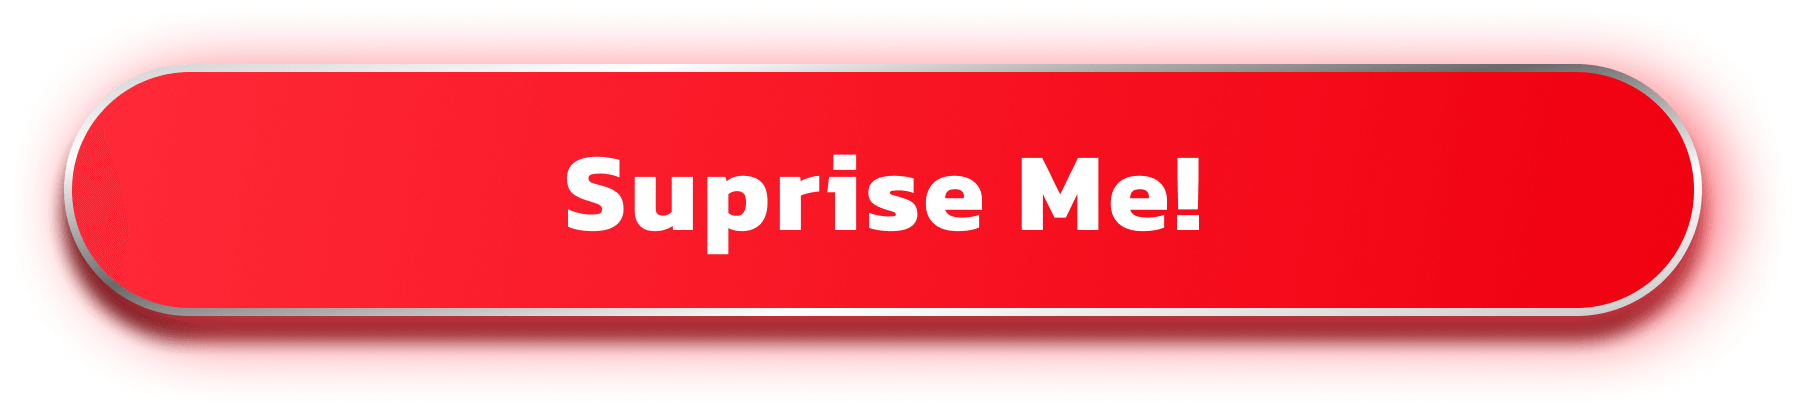
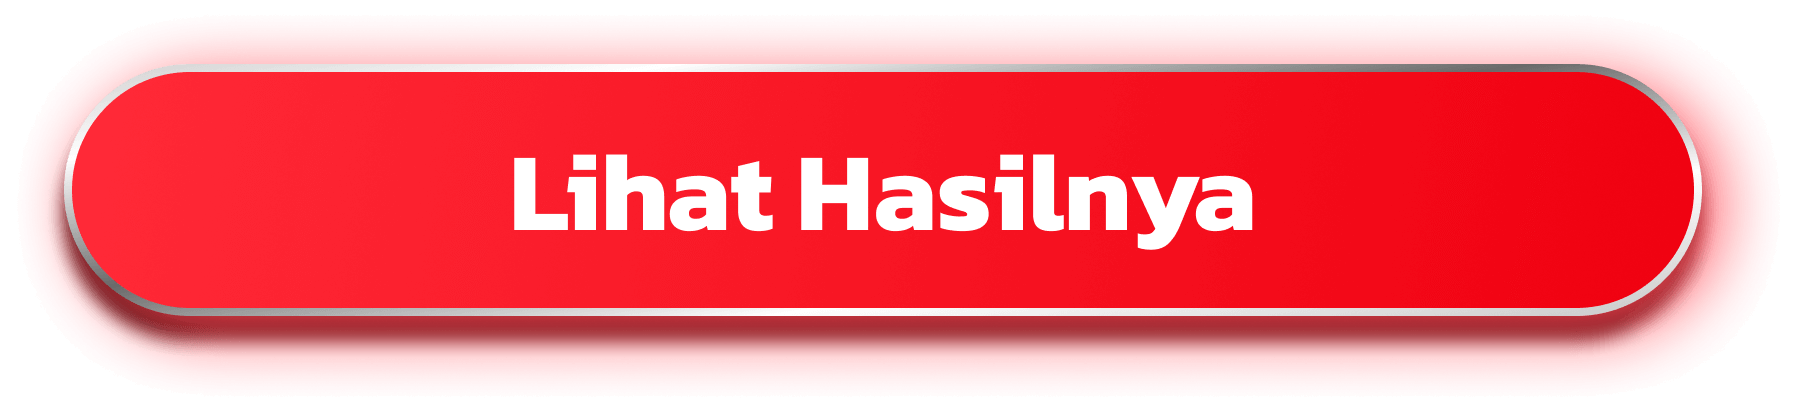
upd retek

Changed region(s): [[0.2803, 0.3495, 0.7164, 0.6117]]

diff --git a/app/primaria/cam2/page.js b/app/primaria/cam2/page.js
@@ -340,8 +340,8 @@ export default function Cam() {
                     <button className="w-full relative mx-auto flex justify-center items-center" onClick={generateAI}>
                         <Image src='/primaria/btn-surprise.png' width={899} height={206} alt='Zirolu' className='w-full' priority />
                     </button>
-                    <button className="relative w-[70%] mx-auto flex justify-center items-center mt-0" onClick={retake}>
-                        <Image src='/comcon/zyn/btn-retake.png' width={864} height={210} alt='Zirolu' className='w-full' priority />
+                    <button className="relative w-[90%] mx-auto flex justify-center items-center mt-0" onClick={retake}>
+                        <Image src='/primaria/btn-retake.png' width={864} height={210} alt='Zirolu' className='w-full' priority />
                     </button>
                 </div>
             </div></div>

diff --git a/app/primaria/result2/page.js b/app/primaria/result2/page.js
@@ -192,7 +192,7 @@ export default function Result() {
                 }
                 {loadingDownload && 
                     <div className='animate-upDownCepet relative py-2 lg:py-6 px-2 mt-2 lg:mt-5 text-base lg:text-4xl border-2 text-center bg-[#EF000F] rounded-xl text-[#fff] font-bold'>
-                        <p>Please wait, loading...</p>
+                        <p>Tunggu sebentar...</p>
                     </div>
                 }
                 <div className={`relative w-full ${loadingDownload ? 'hidden' : ''}`}>
